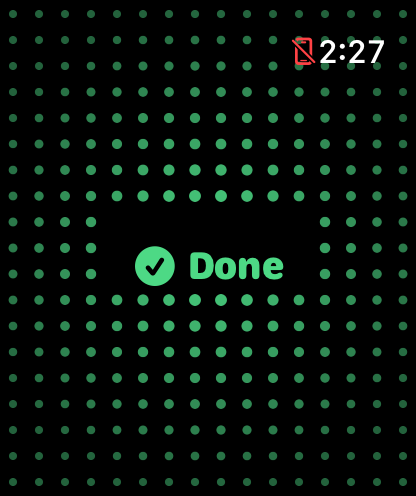
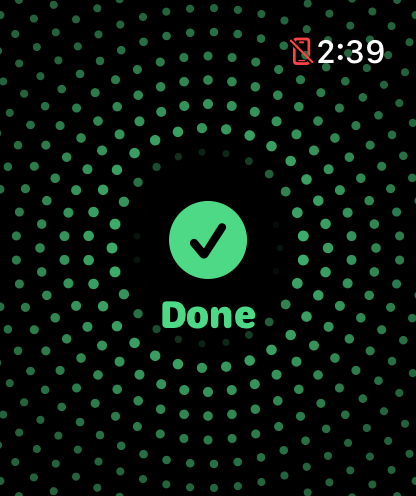
Watch: firmer taps and a round screen
The approach beat uses the Watch's firm single tap in place of the faint
click, at up to about four a second, and 'press now' uses the strongest
pattern. The screen's dots sit on rings and fade toward the centre; Tap is
a solid disc; the idle screen shows one status light, not two lines of text.

diff --git a/NudgeWatch/NudgeWatchApp.swift b/NudgeWatch/NudgeWatchApp.swift
@@ -74,38 +74,47 @@ struct WatchHomeView: View {
             Button {
                 link.play(.ping)
             } label: {
-                VStack(spacing: 6) {
-                    BrailleN(height: 30)
+                VStack(spacing: 5) {
+                    BrailleN(height: 32)
                     Text("Nudge")
                         .font(.system(.title3, design: .rounded, weight: .heavy))
                         .foregroundStyle(.white)
-                    Text(link.status)
-                        .font(.system(.caption2, design: .rounded, weight: .semibold))
-                        .foregroundStyle(WatchTheme.quiet)
-                        .multilineTextAlignment(.center)
-                    Text(keeper.status)
-                        .font(.system(size: 10, weight: .regular, design: .rounded))
-                        .foregroundStyle(WatchTheme.quiet.opacity(0.8))
+                    // One small light says whether the phone is in reach; words only when something is wrong.
+                    HStack(spacing: 5) {
+                        Circle()
+                            .fill(link.isConnected ? WatchTheme.done : WatchTheme.alert)
+                            .frame(width: 7, height: 7)
+                        Text(link.isConnected ? "Ready" : "Open Nudge on iPhone")
+                            .font(.system(.caption2, design: .rounded, weight: .semibold))
+                            .foregroundStyle(WatchTheme.quiet)
+                    }
+                    if !keeper.isAwake {
+                        Text("Not staying awake")
+                            .font(.system(size: 10, weight: .regular, design: .rounded))
+                            .foregroundStyle(WatchTheme.alert)
+                    }
                 }
-                .padding(.horizontal, 10)
-                .padding(.vertical, 6)
+                .padding(.horizontal, 6)
+                .padding(.vertical, 4)
             }
             .buttonStyle(.plain)
 
         case .working:
-            Text("Working")
-                .font(.system(.headline, design: .rounded, weight: .bold))
+            Image(systemName: "ellipsis")
+                .font(.system(size: 30, weight: .heavy))
                 .foregroundStyle(WatchTheme.quiet)
-                .padding(8)
+                .symbolEffect(.variableColor.iterative, isActive: true)
+                .padding(10)
 
         case .seeking:
             VStack(spacing: 0) {
                 if let symbol {
                     Image(systemName: symbol)
-                        .font(.system(size: 26, weight: .heavy))
+                        .font(.system(size: 30, weight: .heavy))
+                        .foregroundStyle(WatchTheme.signal)
                 }
                 Text(mainWord)
-                    .font(.system(size: 34, weight: .heavy, design: .rounded))
+                    .font(.system(size: 30, weight: .heavy, design: .rounded))
                     .minimumScaleFactor(0.6)
                     .lineLimit(1)
                 if isSmallStep {
@@ -115,28 +124,37 @@ struct WatchHomeView: View {
                 }
             }
             .foregroundStyle(.white)
-            .padding(.horizontal, 10)
-            .padding(.vertical, 4)
+            .padding(.horizontal, 4)
 
         case .tap:
-            Label("Tap", systemImage: "hand.tap.fill")
-                .font(.system(size: 32, weight: .heavy, design: .rounded))
-                .foregroundStyle(.black)
-                .padding(.horizontal, 16)
-                .padding(.vertical, 6)
-                .background(WatchTheme.signal, in: Capsule())
+            // A solid disc: the one moment that matters most.
+            VStack(spacing: 0) {
+                Image(systemName: "hand.tap.fill")
+                    .font(.system(size: 30, weight: .heavy))
+                Text("Tap")
+                    .font(.system(size: 28, weight: .heavy, design: .rounded))
+            }
+            .foregroundStyle(.black)
+            .frame(width: 112, height: 112)
+            .background(WatchTheme.signal, in: Circle())
 
         case .done:
-            Label("Done", systemImage: "checkmark.circle.fill")
-                .font(.system(.title3, design: .rounded, weight: .heavy))
-                .foregroundStyle(WatchTheme.done)
-                .padding(8)
+            VStack(spacing: 2) {
+                Image(systemName: "checkmark.circle.fill")
+                    .font(.system(size: 40, weight: .bold))
+                Text("Done")
+                    .font(.system(.title3, design: .rounded, weight: .heavy))
+            }
+            .foregroundStyle(WatchTheme.done)
 
         case .problem:
-            Label("Stopped", systemImage: "exclamationmark.triangle.fill")
-                .font(.system(.title3, design: .rounded, weight: .heavy))
-                .foregroundStyle(WatchTheme.alert)
-                .padding(8)
+            VStack(spacing: 2) {
+                Image(systemName: "exclamationmark.circle.fill")
+                    .font(.system(size: 40, weight: .bold))
+                Text("Stopped")
+                    .font(.system(.title3, design: .rounded, weight: .heavy))
+            }
+            .foregroundStyle(WatchTheme.alert)
         }
     }
 
@@ -161,7 +179,7 @@ struct WatchHomeView: View {
 
     private var spoken: String {
         switch guidance.phase {
-        case .idle: return "Nudge. \(link.status). \(keeper.status). Double tap to test the buzz."
+        case .idle: return "Nudge. \(link.isConnected ? "Ready" : "Open Nudge on the iPhone"). Double tap to test the buzz."
         case .working: return "Working"
         case .seeking: return guidance.word.isEmpty ? "Guiding" : guidance.word
         case .tap: return "Tap"

diff --git a/NudgeWatch/WatchDotField.swift b/NudgeWatch/WatchDotField.swift
@@ -21,7 +21,7 @@ struct WatchDotField: View {
     @Environment(\.accessibilityReduceMotion) private var reduceMotion
     @Environment(\.isLuminanceReduced) private var dimmed
 
-    private let spacing: CGFloat = 13
+    private let spacing: CGFloat = 12
     private let dotRadius: CGFloat = 2
 
     var body: some View {
@@ -34,33 +34,50 @@ struct WatchDotField: View {
         .accessibilityHidden(true)
     }
 
+    /// The dots sit on rings around the centre, not on a square grid, and thin out softly
+    /// toward whatever is written in the middle. Rings suit a watch face and the ripple that
+    /// runs through them; a grid with a rectangle cut out of it looked like a box in a box.
     private func draw(in context: inout GraphicsContext, size: CGSize, time: TimeInterval, still: Bool) {
         guard size.width > 0, size.height > 0 else { return }
-        let columns = max(1, Int(size.width / spacing))
-        let rows = max(1, Int(size.height / spacing))
-        let offsetX = (size.width - CGFloat(columns - 1) * spacing) / 2
-        let offsetY = (size.height - CGFloat(rows - 1) * spacing) / 2
+        let centre = CGPoint(x: size.width / 2, y: size.height / 2)
         let reach = max(hypot(size.width, size.height) / 2, 1)
         let t = CGFloat(time)
+        // The space left for the words: an ellipse a little larger than they are.
+        let clearX = gap.width / 2 + 10
+        let clearY = gap.height / 2 + 8
 
-        for row in 0..<rows {
-            for column in 0..<columns {
-                let point = CGPoint(x: offsetX + CGFloat(column) * spacing, y: offsetY + CGFloat(row) * spacing)
-                if gap.width > 0,
-                   abs(point.x - size.width / 2) < gap.width / 2 + dotRadius,
-                   abs(point.y - size.height / 2) < gap.height / 2 + dotRadius {
-                    continue
+        var ring = 1
+        while CGFloat(ring) * spacing < reach + spacing {
+            let radius = CGFloat(ring) * spacing
+            let count = max(6, Int((2 * .pi * radius / spacing).rounded()))
+            // Alternate rings are turned by half a step, so the dots do not line up in spokes.
+            let turn = ring % 2 == 0 ? CGFloat.pi / CGFloat(count) : 0
+            for step in 0..<count {
+                let angle = CGFloat(step) / CGFloat(count) * 2 * .pi + turn
+                let dx = cos(angle) * radius
+                let dy = sin(angle) * radius
+                let point = CGPoint(x: centre.x + dx, y: centre.y + dy)
+                guard point.x > -dotRadius, point.y > -dotRadius,
+                      point.x < size.width + dotRadius, point.y < size.height + dotRadius else { continue }
+
+                // 0 inside the space for the words, rising smoothly to 1 a little way out.
+                var presence: CGFloat = 1
+                if gap.width > 0 {
+                    let q = (dx * dx) / (clearX * clearX) + (dy * dy) / (clearY * clearY)
+                    if q < 1 { continue }
+                    presence = min(1, (q - 1) / 0.9)
                 }
-                let dx = point.x - size.width / 2
-                let dy = point.y - size.height / 2
-                let distance = hypot(dx, dy)
-                let (level, scale, color) = appearance(dx: dx, dy: dy, distance: distance, reach: reach, t: t, still: still)
-                let radius = dotRadius * scale
+
+                let (level, scale, color) = appearance(dx: dx, dy: dy, distance: radius, reach: reach, t: t, still: still)
                 let amount = min(max(level, 0), 1)
-                let fill = amount <= 0.01 ? WatchTheme.dotOff : color.opacity(0.16 + 0.84 * amount)
-                context.fill(Path(ellipseIn: CGRect(x: point.x - radius, y: point.y - radius, width: radius * 2, height: radius * 2)),
+                let size = dotRadius * scale * (0.55 + 0.45 * presence)
+                let fill = amount <= 0.01
+                    ? WatchTheme.dotOff.opacity(Double(presence))
+                    : color.opacity(Double((0.16 + 0.84 * amount) * presence))
+                context.fill(Path(ellipseIn: CGRect(x: point.x - size, y: point.y - size, width: size * 2, height: size * 2)),
                              with: .color(fill))
             }
+            ring += 1
         }
     }
 

diff --git a/NudgeWatch/WatchLink.swift b/NudgeWatch/WatchLink.swift
@@ -7,6 +7,8 @@ final class WatchLink: NSObject, ObservableObject, WCSessionDelegate {
     static let shared = WatchLink()
 
     @Published private(set) var status: String = "Starting"
+    /// True while the phone's app can be reached.
+    @Published private(set) var isConnected = false
     @Published private(set) var lastCommand: String = "None yet"
 
     func start() {
@@ -26,11 +28,12 @@ final class WatchLink: NSObject, ObservableObject, WCSessionDelegate {
             device.play(.notification)
         case .approach:
             // No longer sent: the Watch times the approach beat itself. Kept for older builds.
-            device.play(.click)
+            device.play(.start)
         case .onTarget:
-            device.play(.success)
+            // The strongest pattern the Watch has, so "press now" cannot be mistaken for a beat.
+            device.play(.notification)
         case .confirmed:
-            device.play(.directionUp)
+            device.play(.success)
         case .wrong:
             device.play(.failure)
         }
@@ -40,6 +43,8 @@ final class WatchLink: NSObject, ObservableObject, WCSessionDelegate {
     }
 
     private func handle(_ message: [String: Any]) {
+        // Anything arriving from the phone means it is in reach.
+        DispatchQueue.main.async { if !self.isConnected { self.isConnected = true } }
         if let name = message[WatchMessageKey.phase] as? String, let phase = WatchPhase(rawValue: name) {
             let closeness = message[WatchMessageKey.closeness] as? Double
             var direction: CGVector?
@@ -62,12 +67,14 @@ final class WatchLink: NSObject, ObservableObject, WCSessionDelegate {
     func session(_ session: WCSession, activationDidCompleteWith activationState: WCSessionActivationState, error: Error?) {
         DispatchQueue.main.async {
             self.status = activationState == .activated ? "Connected to iPhone" : "Not connected"
+            self.isConnected = activationState == .activated && session.isReachable
         }
     }
 
     func sessionReachabilityDidChange(_ session: WCSession) {
         DispatchQueue.main.async {
             self.status = session.isReachable ? "Connected to iPhone" : "iPhone not reachable"
+            self.isConnected = session.isReachable
         }
     }
 

diff --git a/NudgeWatch/WatchGuidance.swift b/NudgeWatch/WatchGuidance.swift
@@ -6,7 +6,7 @@ import WatchKit
 ///
 /// The phone says how near the finger is to the button about five times a second. The Watch
 /// turns that into a steady beat of taps: about one a second when the finger is far away,
-/// quickening smoothly to about seven a second when it is nearly on the button. The beat is
+/// quickening smoothly to about four a second when it is nearly on the button. The beat is
 /// timed here, not on the phone, so it stays even when Bluetooth delivers messages in bursts.
 final class WatchGuidance: ObservableObject {
     static let shared = WatchGuidance()
@@ -25,7 +25,9 @@ final class WatchGuidance: ObservableObject {
     static func interval(for closeness: Double) -> TimeInterval {
         let c = min(max(closeness, 0), 1)
         // Eased so the change is easy to feel across the whole approach, not only at the end.
-        return 1.0 - 0.86 * pow(c, 0.8)
+        // The fastest beat is about four a second: each tap is a firm one, and firmer taps
+        // need a little room between them or they blur into a hum.
+        return 1.0 - 0.76 * pow(c, 0.8)
     }
 
     /// Call on the main thread with each update from the phone.
@@ -81,7 +83,8 @@ final class WatchGuidance: ObservableObject {
         }
         if now.timeIntervalSince(lastBeat) >= Self.interval(for: closeness) {
             lastBeat = now
-            WKInterfaceDevice.current().play(.click)
+            // `.start` is a single firm tap. `.click`, used before, was too faint to feel while moving.
+            WKInterfaceDevice.current().play(.start)
         }
     }
 }

diff --git a/NudgeWatch/RuntimeKeeper.swift b/NudgeWatch/RuntimeKeeper.swift
@@ -8,6 +8,8 @@ final class RuntimeKeeper: NSObject, ObservableObject, WKExtendedRuntimeSessionD
     static let shared = RuntimeKeeper()
 
     @Published private(set) var status = "Not started"
+    /// False only once it is known that the keep-awake session is not running.
+    @Published private(set) var isAwake = true
     private var session: WKExtendedRuntimeSession?
 
     /// Call when the app becomes active. Does nothing if a session is already running.
@@ -21,7 +23,10 @@ final class RuntimeKeeper: NSObject, ObservableObject, WKExtendedRuntimeSessionD
     }
 
     func extendedRuntimeSessionDidStart(_ extendedRuntimeSession: WKExtendedRuntimeSession) {
-        DispatchQueue.main.async { self.status = "Staying awake" }
+        DispatchQueue.main.async {
+            self.status = "Staying awake"
+            self.isAwake = true
+        }
     }
 
     func extendedRuntimeSessionWillExpire(_ extendedRuntimeSession: WKExtendedRuntimeSession) {
@@ -35,6 +40,7 @@ final class RuntimeKeeper: NSObject, ObservableObject, WKExtendedRuntimeSessionD
         DispatchQueue.main.async {
             self.session = nil
             self.status = "Not staying awake"
+            self.isAwake = false
         }
     }
 }
